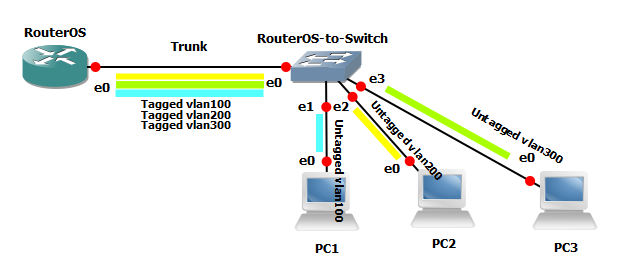
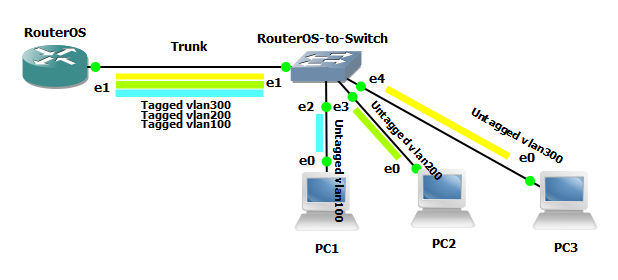
added post to can ping

diff --git a/_posts/2018-04-25-vlan-mikrotik.md b/_posts/2018-04-25-vlan-mikrotik.md
@@ -51,15 +51,106 @@ Jika ada paket yang dikirim melalui interfaces 'vlan2', dua tag vlan akan ditamb
 > **Catatan:**<br> 
 > MTU harus diatur ke 1500 byte sama seperti pada interfaces Ethernet. Tetapi ini mungkin tidak berfungsi dengan beberapa Ethernet card yang tidak mendukung receiving/transmitting paket Ethernet ukuran full dengan header VLAN yang ditambahkan (1500 byte data + 4 byte header VLAN + 14 byte header Ethernet). Dalam situasi ini MTU 1496 dapat digunakan, tetapi perhatikan bahwa ini akan menyebabkan paket fragmentasi jika paket yang terlalu besar harus dikirim melalui interface. Pada saat yang sama ingat bahwa MTU 1496 dapat menyebabkan masalah jika jalur discovery MTU tidak berfungsi dengan benar antara source dan destination.
 
-#### Contoh Leyer2 VLAN
+### Contoh Leyer2 VLAN
 ***
 
 > **Peringatan:**<br>
 > Konfigurasi ini diketahui menyebabkan masalah dengan perangkat vendor lain, terutama di jaringan yang mengaktifkan STP, Anda harus menggunakan penyaringan bridge VLAN sebagai gantinya jika Anda menggunakan RouterOS v6.41 atau yang lebih baru. Anda dapat membaca lebih lanjut tentang ini di [Sini](https://wiki.mikrotik.com/wiki/Manual:Layer2_misconfiguration#VLAN_in_bridge_with_a_physical_interface).
 
-##### Port based VLAN tagging #1 (Trunk and Access ports)
+#### Port based VLAN tagging #1 (Trunk and Access ports)
 
 ![Secenario Vlan]({{"/images/scenario-vlan.png" | absolute_url}})
+
+#### RouterOS
+- Tambahkan interfaces VLAN yang diperlukan pada interface ethernet untuk menjadikannya sebagai port trunk VLAN
+```bash
+/interface vlan
+add interface=ether1 vlan-id=100 name=eth1-vlan100
+add interface=ether1 vlan-id=200 name=eth1-vlan200
+add interface=ether1 vlan-id=300 name=eth1-vlan300
+```
+
+- Tambahkan IP Address untuk setiap VLAN dengan subnet yang berbeda
+```bash
+/ip address
+add address=192.168.1.1/24 interface=eth1-vlan100
+add address=192.168.2.1/24 interface=eth1-vlan200
+add address=192.168.3.1/24 interface=eth1-vlan300
+```
+
+#### RouterOS-to-Switch
+- Tambahkan interfaces VLAN yang diperlukan pada interface ethernet untuk menjadikannya sebagai port trunk VLAN
+```bash
+/interface vlan
+add interface=ether1 vlan-id=100 name=eth1-vlan100
+add interface=ether1 vlan-id=200 name=eth1-vlan200
+add interface=ether1 vlan-id=300 name=eth1-vlan300
+```
+
+- Tambahkan bridge untuk setiap VLAN
+```bash
+/interface bridge
+add name=bridge-vlan100
+add name=bridge-vlan200
+add name=bridge-vlan300
+```
+
+- Tambahkan interfaces VLAN ke bridge yang sesuai dan interfaces ethernet di mana untuk keperluan traffic untagged 
+```bash
+/interface bridge port
+add bridge=bridge-vlan100 interface=eth1-vlan100
+add bridge=bridge-vlan100 interface=ether2
+add bridge=bridge-vlan200 interface=eth1-vlan200
+add bridge=bridge-vlan200 interface=ether3
+add bridge=bridge-vlan300 interface=eth1-vlan300
+add bridge=bridge-vlan300 interface=ether4
+```
+
+- Tambahkan IP Address pada PC1, PC2, dan PC3 dan Uji koneksi ke semua VLAN
+##### PC1
+```bash
+PC1> ip 192.168.1.2/24 192.168.1.1
+Checking for duplicate address...
+PC1 : 192.168.1.2 255.255.255.0 gateway 192.168.1.1
+```
+```bash
+PC1> ping 192.168.1.1
+84 bytes from 192.168.1.1 icmp_seq=1 ttl=64 time=27.085 ms
+84 bytes from 192.168.1.1 icmp_seq=2 ttl=64 time=21.402 ms
+84 bytes from 192.168.1.1 icmp_seq=3 ttl=64 time=17.312 ms
+84 bytes from 192.168.1.1 icmp_seq=4 ttl=64 time=18.555 ms
+84 bytes from 192.168.1.1 icmp_seq=5 ttl=64 time=17.339 ms
+```
+##### PC2
+```bash
+PC2> ip 192.168.2.2/24 192.168.2.1
+Checking for duplicate address...
+PC1 : 192.168.2.2 255.255.255.0 gateway 192.168.2.1
+```
+```bash
+PC2> ping 192.168.2.1
+84 bytes from 192.168.2.1 icmp_seq=1 ttl=64 time=14.927 ms
+84 bytes from 192.168.2.1 icmp_seq=2 ttl=64 time=24.165 ms
+84 bytes from 192.168.2.1 icmp_seq=3 ttl=64 time=29.632 ms
+84 bytes from 192.168.2.1 icmp_seq=4 ttl=64 time=23.061 ms
+84 bytes from 192.168.2.1 icmp_seq=5 ttl=64 time=18.035 ms
+```
+##### PC3
+```bash
+PC3> ip 192.168.3.2/24 192.168.3.1
+Checking for duplicate address...
+PC1 : 192.168.3.2 255.255.255.0 gateway 192.168.3.1
+```
+```bash
+PC3> ping 192.168.3.1
+84 bytes from 192.168.3.1 icmp_seq=1 ttl=64 time=8.499 ms
+84 bytes from 192.168.3.1 icmp_seq=2 ttl=64 time=17.415 ms
+84 bytes from 192.168.3.1 icmp_seq=3 ttl=64 time=17.776 ms
+84 bytes from 192.168.3.1 icmp_seq=4 ttl=64 time=14.304 ms
+84 bytes from 192.168.3.1 icmp_seq=5 ttl=64 time=21.216 ms
+```
+
+![Iklan]({{"/images/ads.jpg" | absolute_url}})
 
 **... To be continue**
 
